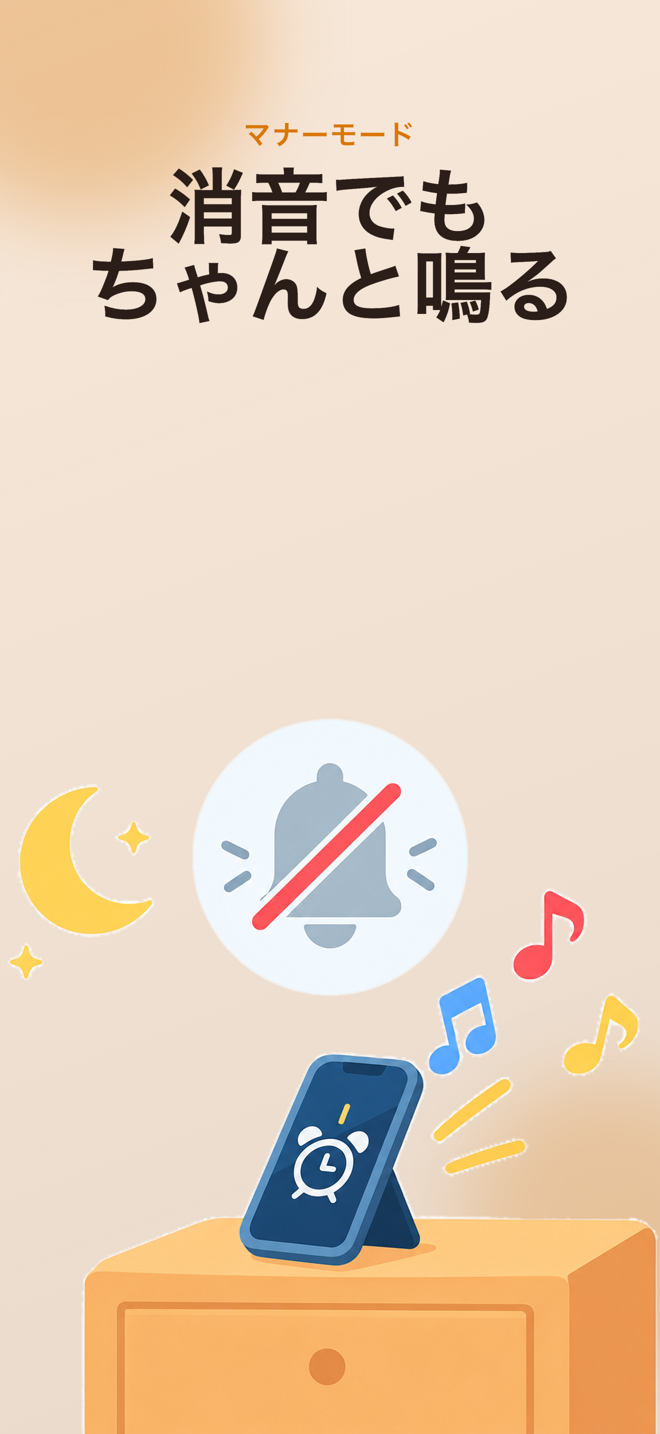
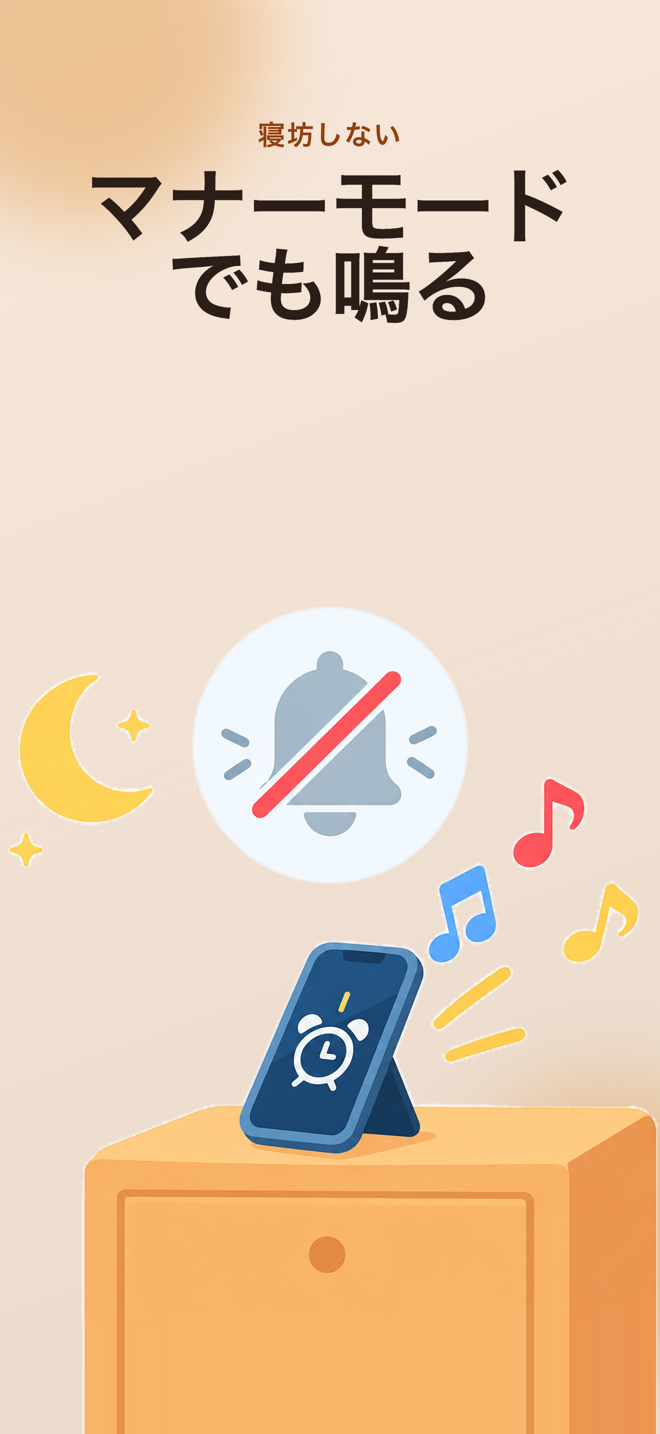
chore(store): close the gap on #4 (#218)
Extend the cut-off nightstand downward so the illustration sits higher
and the space under the headline matches the other screens.

Claude-Session: https://claude.ai/code/session_01H3m5bxJzxYnBapGaqEKWQD

diff --git a/scripts/store/compose_illustration_slides.py b/scripts/store/compose_illustration_slides.py
@@ -43,6 +43,9 @@ def card(path, box, width, radius=44):
 def place(bg,img,x,y): bg.alpha_composite(img,(int(x),int(y)))
 
 hero=knockout(SC+'onboarding_hero.png'); silent=knockout(SC+'onboarding_silent.png')
+# the nightstand is cut at the bottom of the art; extend it by repeating the last row
+_ext=170; _row=silent.crop((0,silent.height-2,silent.width,silent.height-1)).resize((silent.width,_ext))
+_s2=Image.new('RGBA',(silent.width,silent.height+_ext),(0,0,0,0)); _s2.alpha_composite(silent,(0,0)); _s2.alpha_composite(_row,(0,silent.height)); silent=_s2
 vd=Image.open(SC+'msa-video-illust-v2.png').convert('RGBA')
 pl=Image.open(SC+'msa-playlist-illust-v2.png').convert('RGBA'); pl=pl.crop(pl.getchannel('A').point(lambda a:255 if a>20 else 0).getbbox())
 for l in ['ja','en']:
@@ -58,7 +61,7 @@ for l in ['ja','en']:
     bg.convert('RGB').save(OUT+f'{l}-03.png')
     # 4
     bg=Image.open(EX+f'{l}/04-no-device.png').convert('RGBA')
-    S=int(1254*1.32); s=silent.resize((S,S),Image.LANCZOS); place(bg,s,(W-S)/2,H-S)
+    S=int(1254*1.32); s=silent.resize((S,int(silent.height*S/silent.width)),Image.LANCZOS); place(bg,s,(W-S)/2,H-s.height)
     bg.convert('RGB').save(OUT+f'{l}-04.png')
     # 5
     bg=Image.open(EX+f'{l}/05-no-device.png').convert('RGBA')
